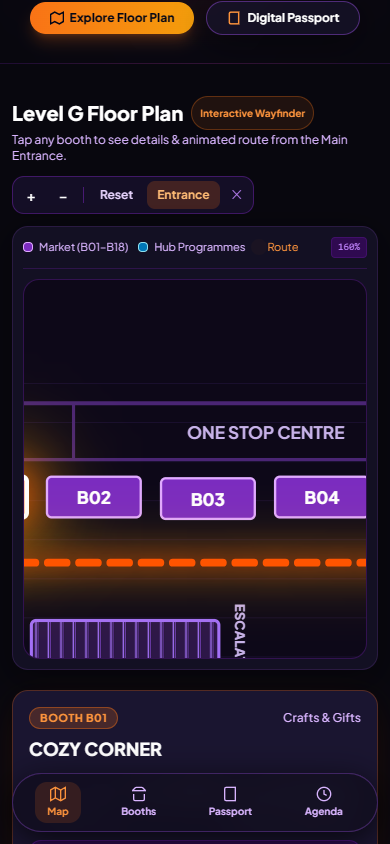
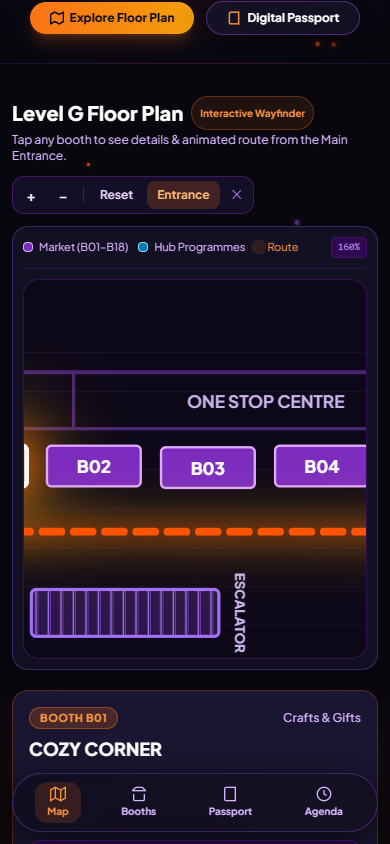
fix(map): align outer west booths B10, B09, B08 inside corridor wall border

Changed region(s): [[0.0615, 0.4313, 0.9538, 0.8009], [0.7385, 0.2464, 0.7692, 0.2773]]

diff --git a/index.html b/index.html
@@ -418,14 +418,14 @@
 
             <!-- 2. West Corridor Outer Column: B10, B09, B08 -->
             <g class="booth-group cursor-pointer">
-              <rect id="map-B10" class="booth-rect" x="11" y="194" width="26" height="60" rx="3" fill="#7b2cbf" stroke="#e0aaff" stroke-width="1.5" />
-              <text x="24" y="224" fill="#fff" font-size="10" font-weight="800" text-anchor="middle" dominant-baseline="central" transform="rotate(90 24 224)" pointer-events="none">B10</text>
+              <rect id="map-B10" class="booth-rect" x="26" y="194" width="26" height="60" rx="3" fill="#7b2cbf" stroke="#e0aaff" stroke-width="1.5" />
+              <text x="39" y="224" fill="#fff" font-size="10" font-weight="800" text-anchor="middle" dominant-baseline="central" transform="rotate(90 39 224)" pointer-events="none">B10</text>
 
-              <rect id="map-B09" class="booth-rect" x="11" y="267" width="26" height="60" rx="3" fill="#7b2cbf" stroke="#e0aaff" stroke-width="1.5" />
-              <text x="24" y="297" fill="#fff" font-size="10" font-weight="800" text-anchor="middle" dominant-baseline="central" transform="rotate(90 24 297)" pointer-events="none">B09</text>
+              <rect id="map-B09" class="booth-rect" x="26" y="267" width="26" height="60" rx="3" fill="#7b2cbf" stroke="#e0aaff" stroke-width="1.5" />
+              <text x="39" y="297" fill="#fff" font-size="10" font-weight="800" text-anchor="middle" dominant-baseline="central" transform="rotate(90 39 297)" pointer-events="none">B09</text>
 
-              <rect id="map-B08" class="booth-rect" x="11" y="344" width="26" height="60" rx="3" fill="#7b2cbf" stroke="#e0aaff" stroke-width="1.5" />
-              <text x="24" y="374" fill="#fff" font-size="10" font-weight="800" text-anchor="middle" dominant-baseline="central" transform="rotate(90 24 374)" pointer-events="none">B08</text>
+              <rect id="map-B08" class="booth-rect" x="26" y="344" width="26" height="60" rx="3" fill="#7b2cbf" stroke="#e0aaff" stroke-width="1.5" />
+              <text x="39" y="374" fill="#fff" font-size="10" font-weight="800" text-anchor="middle" dominant-baseline="central" transform="rotate(90 39 374)" pointer-events="none">B08</text>
             </g>
 
             <!-- 3. West Corridor Inner Column (Below Left Escalator): B13, B12, B11 -->

diff --git a/app.js b/app.js
@@ -130,9 +130,9 @@ const BOOTHS_DATA = [
     matric: "MC240929677",
     section: "MC-S2",
     zone: "West Corridor",
-    cx: 24,
+    cx: 39,
     cy: 374,
-    path: "524,528 524,400 80,400 80,374 37,374",
+    path: "524,528 524,400 80,400 80,374 52,374",
     directions: "From Entrance, turn left toward Admissions; B08 is at the bottom of West Corridor outer wall across B11."
   },
   {
@@ -143,9 +143,9 @@ const BOOTHS_DATA = [
     matric: "MC240930186",
     section: "MC-S2",
     zone: "West Corridor",
-    cx: 24,
+    cx: 39,
     cy: 297,
-    path: "524,528 524,400 80,400 80,297 37,297",
+    path: "524,528 524,400 80,400 80,297 52,297",
     directions: "Walk down West Corridor outer aisle; B09 is in the middle between B08 and B10 across B12."
   },
   {
@@ -156,9 +156,9 @@ const BOOTHS_DATA = [
     matric: "MC240527875",
     section: "MC-S2",
     zone: "West Corridor",
-    cx: 24,
+    cx: 39,
     cy: 224,
-    path: "524,528 524,400 80,400 80,224 37,224",
+    path: "524,528 524,400 80,400 80,224 52,224",
     directions: "Turn left into West Corridor; B10 is at the top of the outer column below Trophy circle across B13."
   },
   {
